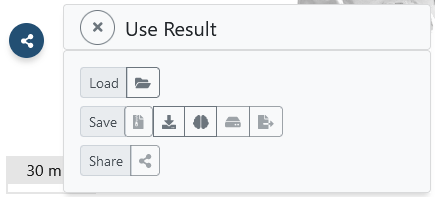
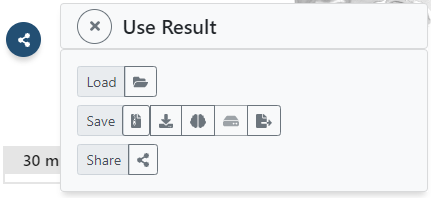
Update documentation

diff --git a/user_docs/extra.css b/user_docs/extra.css
@@ -32,7 +32,7 @@ img[alt="logo"] {
 }
 
 img[alt="icon"] {
-    height: 25px;
+    height: 20px;
     margin-right: 2px;
     margin-left: 2px;
 }

diff --git a/user_docs/results.md b/user_docs/results.md
@@ -6,11 +6,103 @@ The matrix describes how a point in the coordinate system of the original input 
 !!! Info
 	voluba has used the transformation to display the image volume in superimposition with the reference volume - it did not actually modify the input dataset.
 
-The result can be used in several ways, which are all accessible via the **Share/Save transformation results**  button on the left side of the user interface:
+The result can be used in several ways, which are all accessible via the **Use result**  button on the left side of the user interface:
 
 ![snippet](images/results.png)
 
-- In case you uploaded your own image data: Download the image data with an updated NIfTI affine, that includes the applied transformations.
-- Export the affine transformation parameters in a simple, plaintext JSON file for sharing and reuse. The stored transformation file can be re-imported in voluba and be utilized in other tools and workflows.
-- Load your input dataset as a semi-transparent overlay in the interactive atlas viewer siibra-explorer, to see it in the comprehensive context of the brain atlas in reference space. This way, you can investigate the aligned image volume relative to all the data that is registered with the corresponding reference atlas.
-- Generate a private URL to view and share the anchored volume as a remote dataset in neuroglancer-based image viewers.
+* ![]()![icon](images/export.png): In case you uploaded your own image data: Download the image data with an updated NIfTI affine, that includes the applied transformations. 
+* ![]()![icon](images/save.png)/![icon](images/load.png): Export the affine transformation parameters in a simple, plaintext JSON file for sharing and reuse. The stored transformation file can be re-imported in voluba and be utilized in other tools and workflows.
+* ![]()![icon](images/view.png): Load your input dataset as a semi-transparent overlay in the interactive atlas viewer siibra-explorer, to see it in the comprehensive context of the brain atlas in reference space. This way, you can investigate the aligned image volume relative to all the data that is registered with the corresponding reference atlas.  
+* ![]()![icon](images/publish.png): Publish the transformation parameters of your anchoring result to EBRAINS and optionally connect them to the corresponding EBRAINS dataset.  
+* ![]()![icon](images/share.png): Generate a private URL to view and share the anchored volume as a remote dataset in neuroglancer-based image viewers.
+
+## Specification of the voluba transformation matrix
+
+In this section you can find a detailed description about the transformation matrix produced by voluba and how you can convert it.
+An example transformMatrix.json in voluba looks like this:
+
+```
+{
+  "incomingVolume": "Hippocampus",
+  "referenceVolume": "BigBrain (2015)",
+  "version": 1,
+  "@type": "https://voluba.apps.hbp.eu/@types/transform",
+  "transformMatrixInNm": [
+    [
+      0.03409423679113388,
+      0,
+      0,
+      11798058
+    ],
+    [
+      0,
+      0.007783324457705021,
+      -0.04088926315307617,
+      5169337.5
+    ],
+    [
+      0,
+      0.0331939272582531,
+      0.009587729349732399,
+      -30914778
+    ],
+    [
+      0,
+      0,
+      0,
+      1
+    ]
+  ]
+}
+```
+
+* `incoming volume`: anchored volume
+* `reference volume`: reference space that `incoming volume` was anchored to
+* `version`: schema version
+* `@type`: schema to validate a transformMatrix.json
+* `transformMatrixInNm`: $4\times4$ affine matrix, that encodes the transformations in nm, that the user applied to `incoming volume` in voluba
+
+!!! Info
+    In the following section the `transformMatrixInNm` will be called _voluba affine matrix_ or `voluba_affine`.
+
+### Relation between the updated NIfTI affine and voluba affine matrix
+
+voluba allows you to download your uploaded volume again with an updated NIfTI affine matrix. This updated NIfTI affine includes the original NIfTI affine (voxel to physical) as well as the transformations applied in voluba (incoming to reference volume). To explain how the updated NIfTI affine is calculated, we need to consider the following:
+
+voluba shows the reference and incoming volume superimposed in physical space. Therefore, both volumes are automatically transformed to physical space using their respective NIfTI affine matrix, when you start a new anchoring workflow. The transformations that you interactively apply afterwards, are encoded in the voluba affine matrix. Keep in mind, that this matrix does **not** include the initially applied NIfTI affine. Also, the voluba affine matrix uses nm as spatial unit. To convert the voluba affine into a NIfTI compatible affine, we need to apply the following conversion:
+
+```python
+# voluba to affine of different format
+for n in range(3):
+  converted_voluba_affine[n][n] = voluba_affine[n][n] * voxelSize[n]
+  converted_voluba_affine[n][3] = voluba_affine[n][3] / spatialUnits.toNanometers() + (voxelSize[n] / 2)
+```
+
+* `voxelSize`: voxel size (respectively image spacing or resolution) of the incoming volume
+* `spatialUnits.toNanometers()`: conversion factor from the spatial units (units of `voxelSize`) of an affine in the desired format to nm. For example, in NIfTI format the spatial unit is usually mm, so the factor equals $10^6$.
+
+Concatenating the converted voluba affine matrix with the original NIfTI affine matrix of the uploaded volume, gives us the updated NIfTI affine. Thus, the relation is given as follows:
+
+```python
+updated_NIfTI_affine = converted_voluba_affine * uploaded_NIfTI_affine
+```
+
+### Convert a NIfTI affine to voluba affine matrix
+
+Sometimes you may have already applied transformations to an image volume with a different tool. For example, you have a histology image volume as well as an associated segmentation, that you aligned to the histology. Now if you want to anchor both image volumes to a reference space, you can make use of the segmentation-to-histology-transformation. We do **not** recommend to do an alignment with voluba for each volume independently, as the segmentation will most probably not match the histology because the anchoring is done interactively. Instead, you can use voluba to align the histology volume to the reference space and adjust the resulting voluba affine matrix for the segmentation. For this, you will need to convert the segmentation-to-histology NIfTI affine into a voluba matrix:
+
+```python
+# NIfTI affine to voluba
+for n in range(3):
+  voluba_affine[n][n] = affine_matrix[n][n] / voxelSize[n]
+  voluba_affine[n][3] = (affine_matrix[n][3] - (voxelSize[n] / 2)) * spatialUnits.toNanometers()
+```
+
+* `voxelSize`: voxel size (respectively image spacing or resolution) of the image volume
+* `spatialUnits.toNanometers()`: conversion factor from the spatial units (units of `voxelSize`) of a NIfTI affine to nm. For example, in NIfTI format the spatial unit is usually mm, so the factor equals $10^6$.
+
+After that, you can simply concatenate the voluba affine matrix of the histology volume with the converted segmentation-to-histology affine matrix. The resulting affine matrix can then be written into the transformMatrix.json for the segmentation volume and be used in voluba.
+
+```python
+voluba_seg = voluba_hist * converted_seg2hist
+```

diff --git a/user_docs/tutorial.md b/user_docs/tutorial.md
@@ -25,7 +25,7 @@ In this section, we will transform the Hippocampus volume to a (more or less) an
 
 ### Rough positioning
 
-You can either perform all transformations with the **Transform Incoming Volume** dialog (brain icon on the left) or you can use your mouse for translation (Drag & Drop) and rotation (Shift & Drag).
+You can either perform all transformations with the **Transform incoming volume** dialog (brain icon on the left) or you can use your mouse for translation (Drag & Drop) and rotation (Shift & Drag).
 
 The first thing that strikes is, that the coronal view of the incoming Hippocampus volume is displayed in the axial view of the BigBrain template (bottom left). To transform this plane to the BigBrain coronal view, we need to rotate the volume around the x-axis by 90°.
 
@@ -39,7 +39,7 @@ Next, we will roughly move the volume to the BigBrain Hippocampus by translating
 
 The current anchoring result already looks reasonable. But we can make it even more precise. To refine the transformation matrix, we now enter pairs of landmarks. For selecting landmarks, the two pane mode is very useful. You can activate it by clicking the **mode** button on the top right. Now you will see the reference template on the left and the incoming volume on the right side.
 
-Open the **Edit Landmarks** dialog by clicking on the pin icon on the left. To add a landmark select the plus icon. You are now asked to add a landmark to the reference volume first. After that you can position a pin on the corresponding location in the incoming volume on the right. The more landmarks you add, the more accurate the recalculated transformation matrix will be. To start the calculation, select a transformation type and click the calculator icon. We choose `Affine` here.
+Open the **Edit landmarks** dialog by clicking on the pin icon on the left. To add a landmark select the plus icon. You are now asked to add a landmark to the reference volume first. After that you can position a pin on the corresponding location in the incoming volume on the right. The more landmarks you add, the more accurate the recalculated transformation matrix will be. To start the calculation, select a transformation type and click the calculator icon. We choose `Affine` here.
 
 ![gif](gifs/tutorial_landmarks.gif)
 
@@ -49,7 +49,7 @@ By switching back to overlay mode, you can inspect the resulting alignment. If y
 
 ## Using the result
 
-You can now for example download and reuse the parameters of the affine transformation matrix or view the anchoring result in the interactive atlas viewer siibra-explorer. Click on the **Save/Share Transformation Results** and select the brain icon to open siibra-explorer.
+You can now for example download and reuse the parameters of the affine transformation matrix or view the anchoring result in the interactive atlas viewer siibra-explorer. Click on the **Use Result** and select the brain icon to open siibra-explorer.
 
 ![gif](gifs/tutorial_explorer.gif)
 

diff --git a/user_docs/alignment.md b/user_docs/alignment.md
@@ -11,7 +11,7 @@ These steps can be performed and repeated in arbitrary order and are supported t
 
 ## Initial adjustment of coordinate axes orientations and scaling
 
-The axis orientations and the voxel scaling can be modified using the **Transform Incoming Volume** dialog box, which also allows precise adjustment of position and rotation. The dialog is launched using the button with the brain icon on the left of the user interface:
+The axis orientations and the voxel scaling can be modified using the **Transform incoming volume** dialog box, which also allows precise adjustment of position and rotation. The dialog is launched using the button with the brain icon on the left of the user interface:
 
 ![snippet](images/transformation.png)
 
@@ -21,7 +21,7 @@ Whenever you want to secure a transformation parameter, click on the lock. This 
 
 ## Interactive translation and rotation
 
-As mentioned above you can adjust the incoming volume's position and orientation by entering values into the **Transform Incoming Volume** dialog. Additionally, voluba allows direct manipulation of the input data's position and orientation using the mouse pointer. The position is changed by clicking & dragging the incoming volume in any of the orthogonal views. 
+As mentioned above you can adjust the incoming volume's position and orientation by entering values into the **Transform incoming volume** dialog. Additionally, voluba allows direct manipulation of the input data's position and orientation using the mouse pointer. The position is changed by clicking & dragging the incoming volume in any of the orthogonal views. 
 By pressing shift while clicking & dragging, a rotation is applied. 
 
 ![gif](gifs/transform.gif)
@@ -63,7 +63,7 @@ In overlay mode, you enter two landmarks sequentially in the same window. They a
 
 voluba tracks every step that you execute during the alignment process. 
 This includes translations, axis flips, rotations, scaling, and application of affine matrices that have been estimated from landmark pairs. 
-You can inspect and navigate the process using the history browser, which is accessible via the **history browser** button on the left: 
+You can inspect and navigate the process using the history browser, which is accessible via the **History browser** button on the left: 
 
 ![snippet](images/history.png)
 

diff --git a/user_docs/index.md b/user_docs/index.md
@@ -18,7 +18,7 @@ Then, you can use voluba's 3D landmark editor to refine the transformation by sp
 The landmarks enable a recalculation of the linear transformation matrix with additional degrees of freedom, including shearing. 
 Alignment actions can be performed and repeated in arbitrary order, supported through a history browser which allows to undo individual anchoring steps. 
 
-You can download the resulting transformation parameters in json format, open the aligned image can be in the atlas viewer [siibra-explorer](https://atlases.ebrains.eu/viewer/go/bigbrain) to see it in the anatomical context of the [EBRAINS human brain atlas](https//ebrains.eu/services/atlases), and also obtain a private URL to your anchored image that you can share with colleagues. 
+You can download the resulting transformation parameters in json format or export your uploaded image data to NIfTI format with an updated affine. Furthermore, the aligned image can be opened in the atlas viewer [siibra-explorer](https://atlases.ebrains.eu/viewer/go/bigbrain) to see it in the anatomical context of the [EBRAINS human brain atlas](https//ebrains.eu/services/atlases). To share your anchored image with colleagues, you can also obtain a private URL. If you would like to publish the transformation parameters of the anchored result to EBRAINS, voluba offers an automatic workflow for submission.
 
 voluba uses [Vue](https://vuejs.org) for the reactive UI layer, [Vuex](https://vuex.vuejs.org/) for state management, and [Bootstrap 4](https://getbootstrap.com/docs/4.0) for layout.
 
